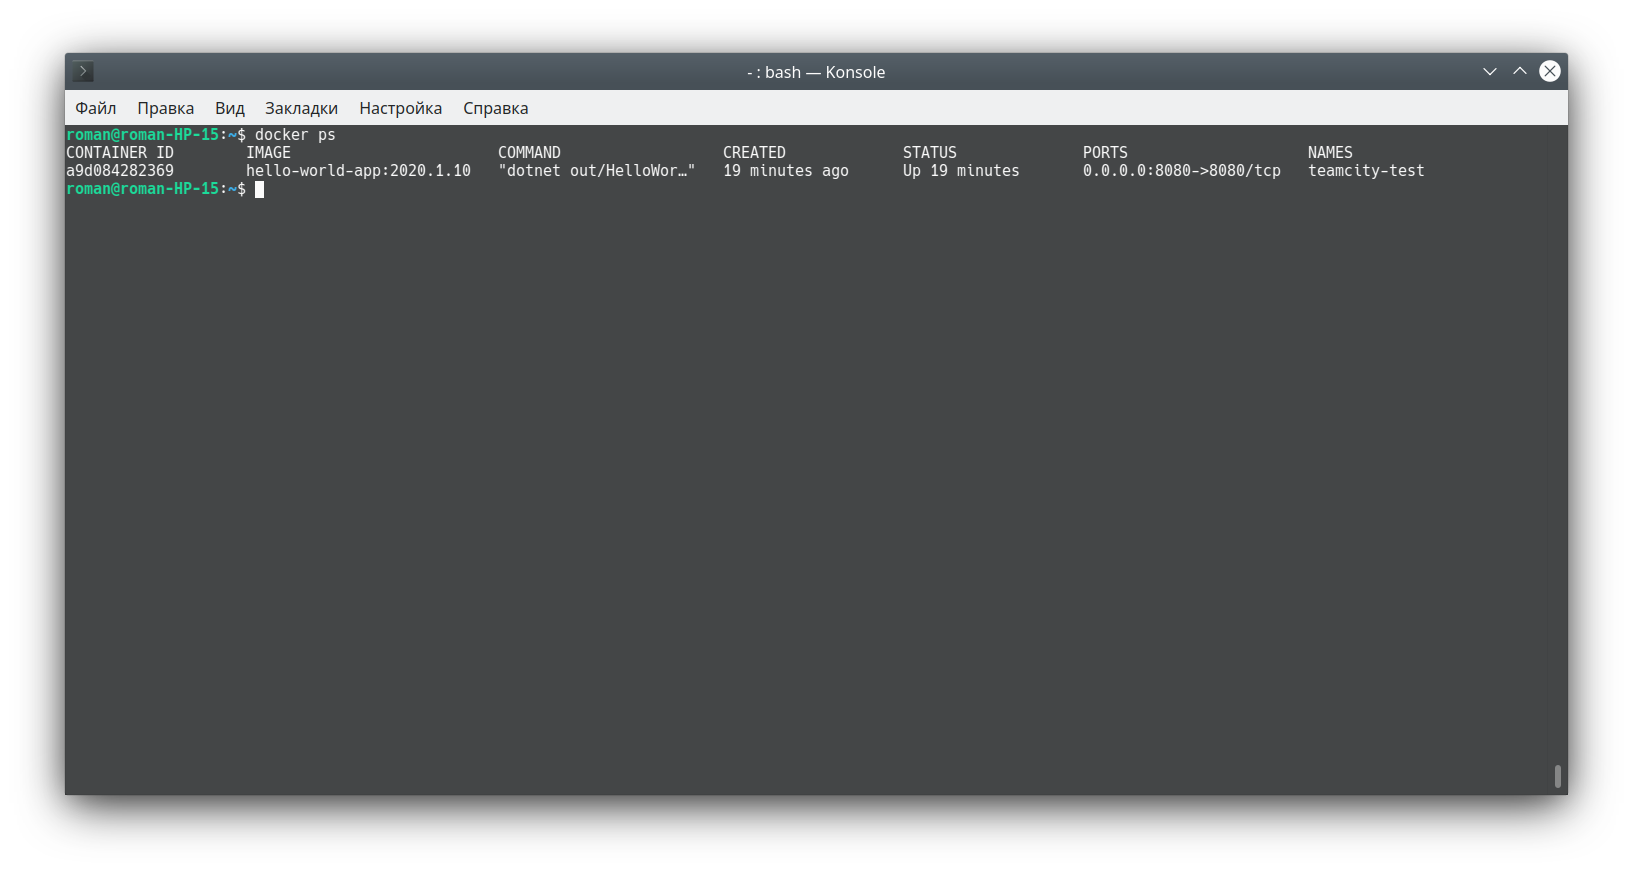
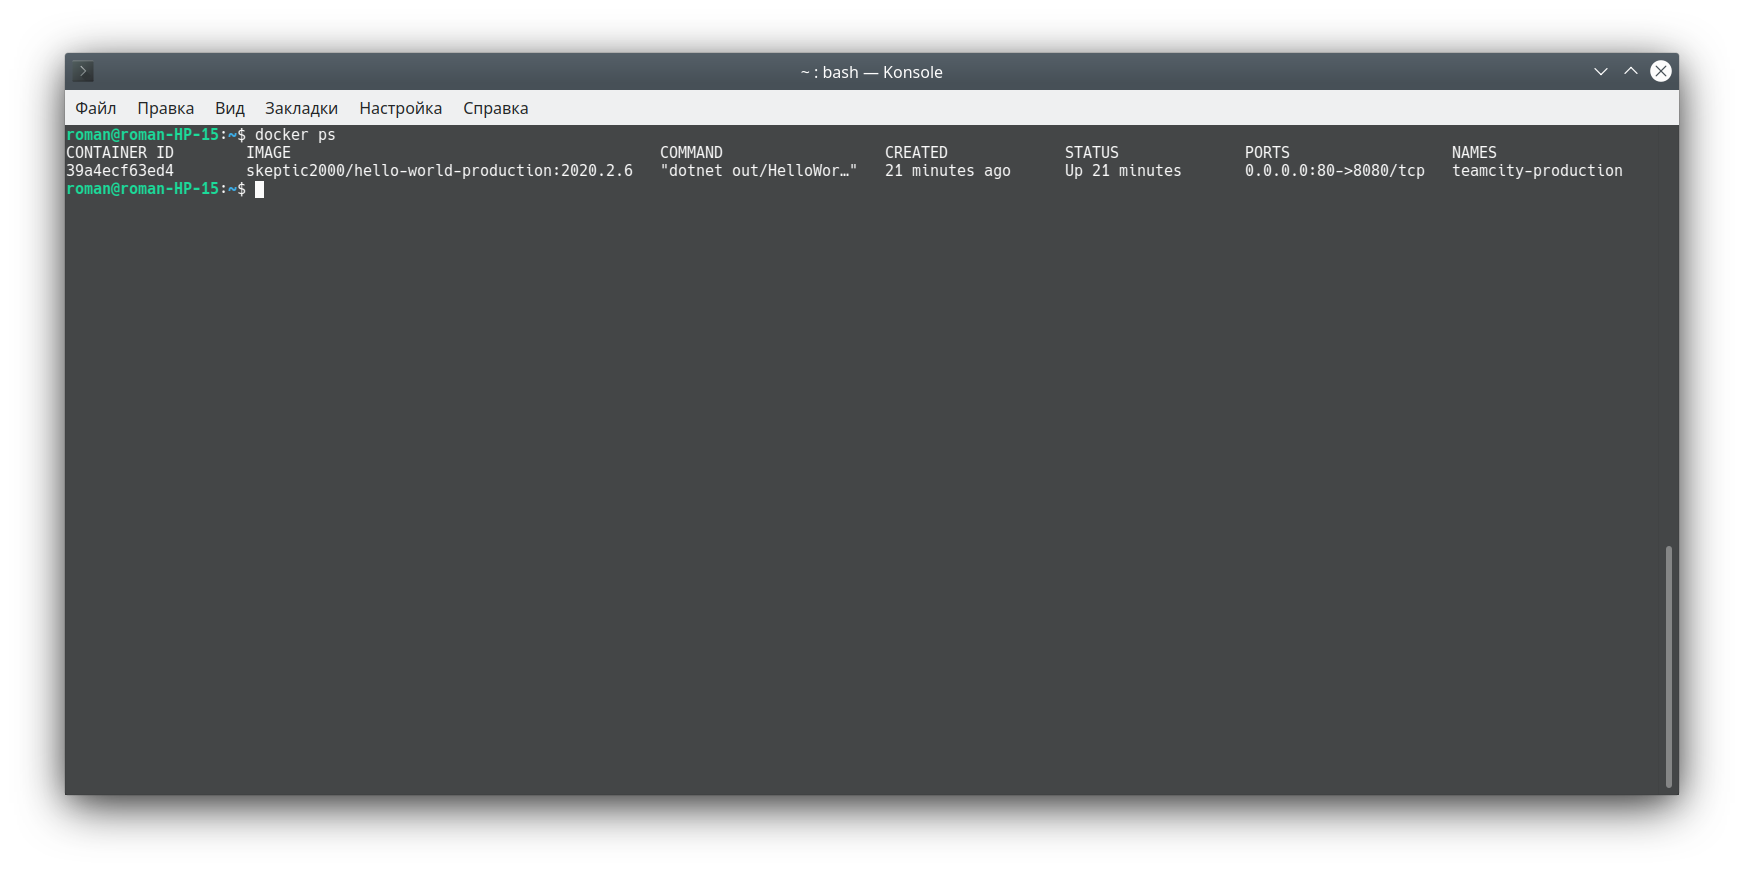
Implement TeamCity tasks according to new requiremnts

diff --git a/2_TeamCity/README.md b/2_TeamCity/README.md
@@ -1,0 +1,30 @@
+This folder contains screenshots of CI/CD configuration in TeamCity.
+Source files of project are [here](https://github.com/roman-grek/HelloWorldAspNetCore).
+Production image on [Dockerhub](https://hub.docker.com/repository/docker/skeptic2000/hello-world-production).
+
+## Projects in TeamCity
+![](projects.png)
+
+## Staging project
+
+### Build configuration
+![](staging_1.png)
+![](staging_2.png)
+
+### Deploy configuration
+![](staging_deploy_1.png)
+![](staging_deploy_2.png)
+![](staging_deploy_3.png)
+
+## Production project
+
+### Build configuration
+![](prod_1.png)
+
+### Deploy configuration
+![](prod_deploy_1.png)
+
+## Running instances
+![](application_staging.png)
+![](application_prod.png)
+![](container.png)
